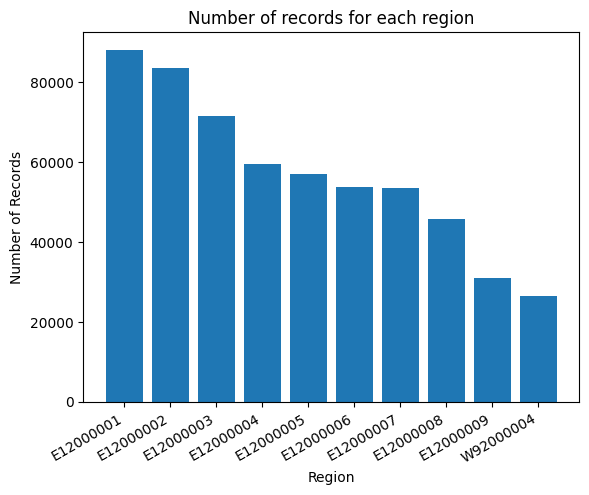
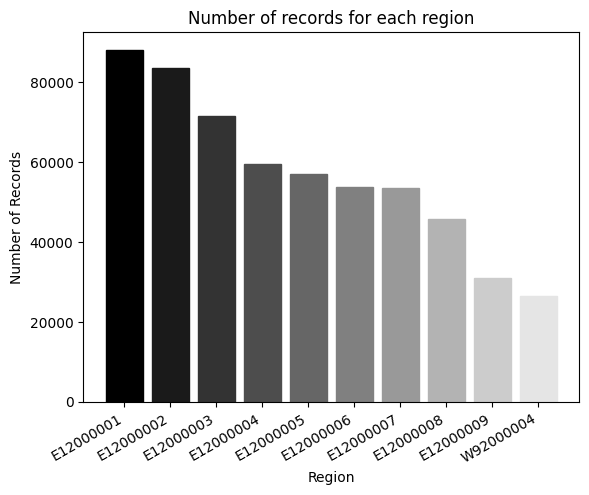
Changed bar charts to grayscale

diff --git a/code/basic_plots.py b/code/basic_plots.py
@@ -27,7 +27,11 @@ def genRecordBarPlot(df, colName):
         values = [str(x) for x in colMap.get(colName).values]
         # plot options w/ their frequencies
         f, ax = plt.subplots()
-        ax.bar(values, df[colName].value_counts()) 
+        bars = ax.bar(values, df[colName].value_counts()) 
+        col = 0
+        for bar in bars:
+            bar.set_color(str(col))
+            col+=.1
         # title + y axis
         plt.title("Number of records for each " + colName.lower())
         plt.ylabel("Number of Records")
@@ -42,6 +46,7 @@ def genRecordBarPlot(df, colName):
         # https://stackoverflow.com/questions/62941033/how-to-turn-x-axis-values-into-a-legend-for-matplotlib-bar-graph 
         legend = '\n'.join(f'{x.key()} - {x.desc()}' for x in colMap.get(colName).options)
         # TO DO: ADD LEGEND SOMEHOW
+        #ax.legend([x for x in colMap.get(colName).options])
         
         # save and close
         plt.savefig(imagesDir+'barchart-'+colName.replace(' ', '-').lower()+'.png', bbox_inches="tight")
